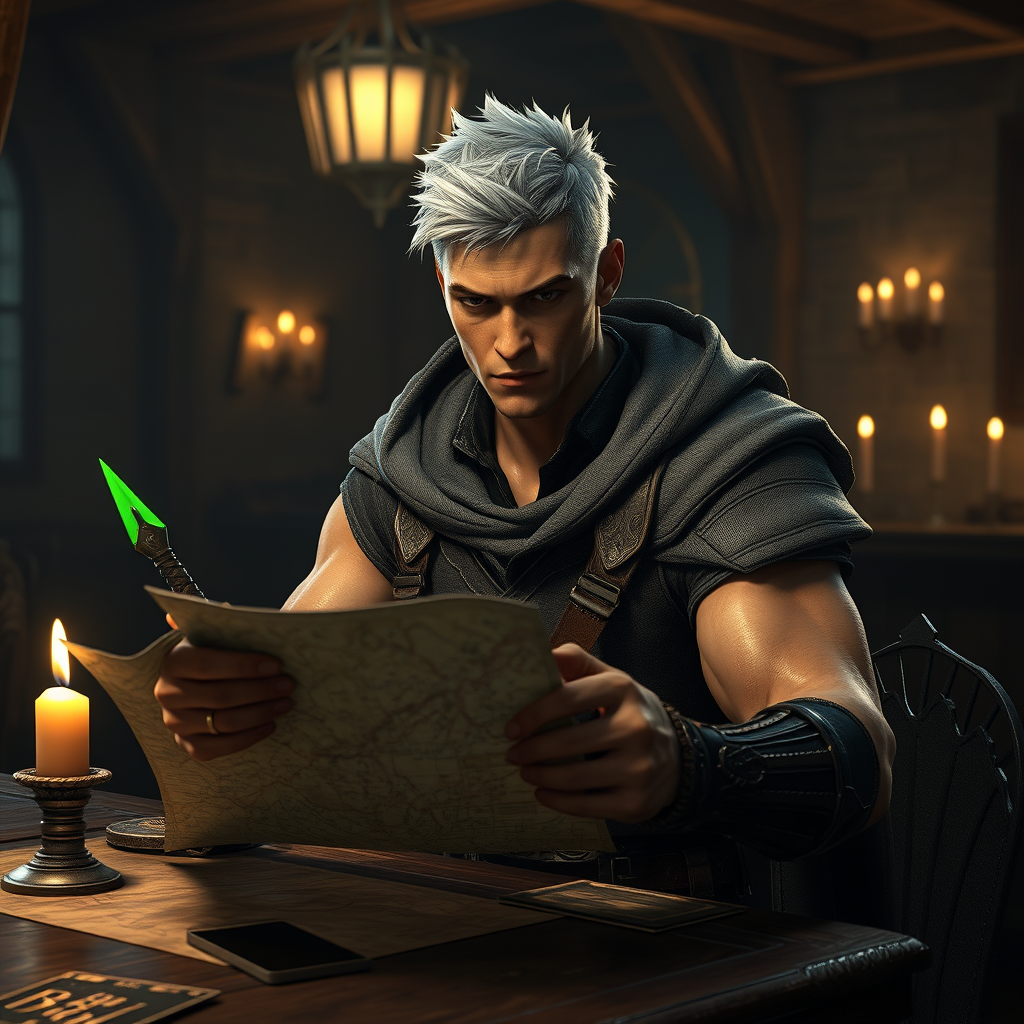
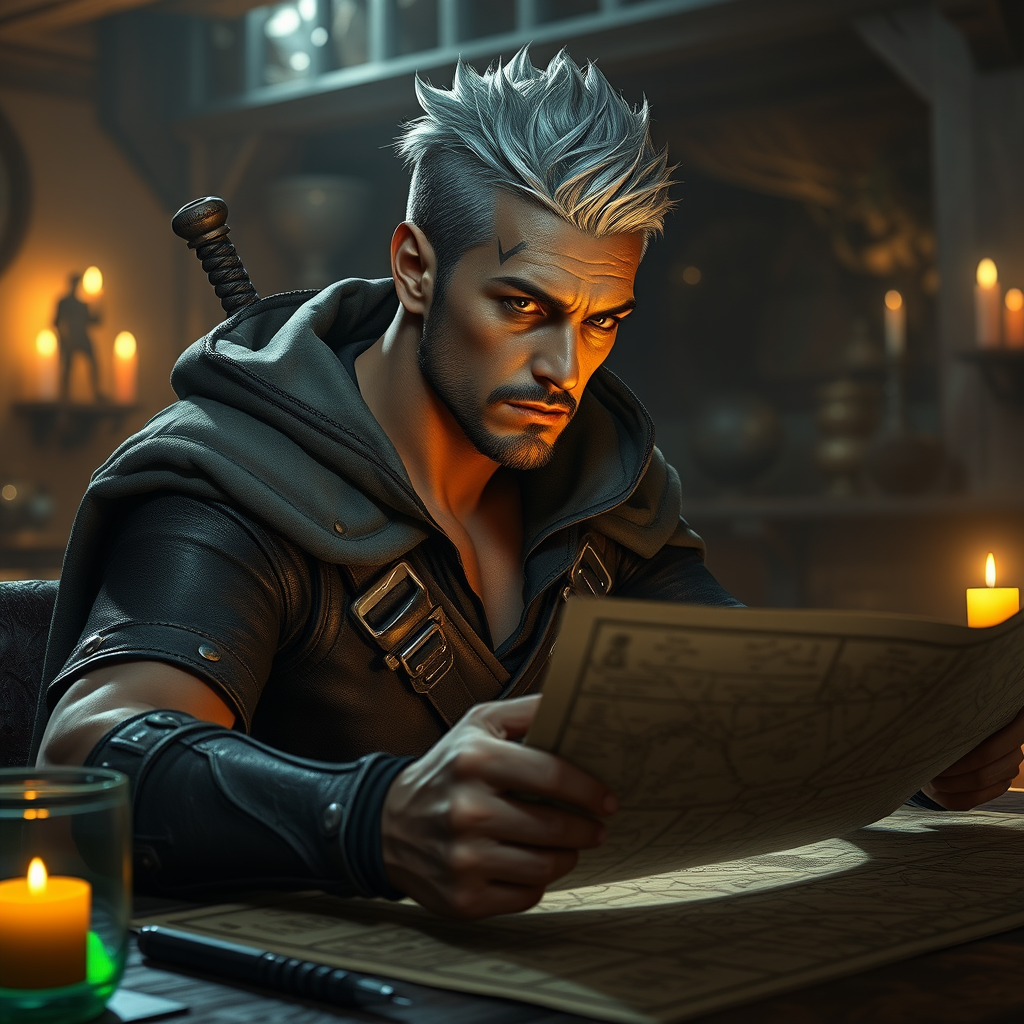
fix: refactor prompt builder to use natural language sentences for FLUX model compatibility

diff --git a/report/report.html b/report/report.html
@@ -442,7 +442,7 @@ Sending video generation request to fal-ai/minimax/video-01...<br>
             <p style="margin-bottom: 0.5rem;"><strong>Prompt kiểm thử nhập vào:</strong> <code>"Kaelen sitting at a tavern table under dim candlelight, examining a map"</code></p>
             <p style="margin-bottom: 0.5rem; font-size: 0.9rem; color: var(--text-secondary);"><strong>Prompt biên dịch cuối cùng gửi tới API (RAG Augmented):</strong></p>
             <div class="log-box" style="font-size: 0.85rem; white-space: normal; word-break: break-all;">
-                cinematic fantasy realism, photorealistic rendering style, highly rendered 8k concept art, detailed textures, raytraced reflections, volumetric atmospheric lighting, masterpiece, award-winning fantasy illustration, hyper-detailed digital art. Kaelen sitting at a tavern table under dim candlelight, examining a map; character kaelen; outfit variant default; appearance: Kaelen is an athletic rogue with a sharp jawline, realistic skin texture with subtle pores, a scar across his left eye, short spiky silver hair, and amber eyes. He wears a dark leather vest, a grey hooded cloak, and wields dual daggers glowing with green poison.; emotion determined. medium shot, character-focused composition. cinematic rim light, volumetric haze. mood: epic. environment: tavern table, night
+                cinematic fantasy realism, photorealistic rendering style, highly rendered 8k concept art, detailed textures, raytraced reflections, volumetric atmospheric lighting, masterpiece, award-winning fantasy illustration, hyper-detailed digital art A medium shot, character-focused composition showing a character. Kaelen is an athletic rogue with a sharp jawline, realistic skin texture with subtle pores, a scar across his left eye, short spiky silver hair, and amber eyes. He wears a dark leather vest, a grey hooded cloak, and wields dual daggers glowing with green poison. Currently, Kaelen sitting at a tavern table under dim candlelight, examining a map. The character has a determined facial expression. The setting is a tavern table during the night. The scene features cinematic rim light, volumetric haze.
             </div>
             
             <p style="margin-top: 1rem; margin-bottom: 0.5rem;"><strong>Kết quả sinh ảnh từ Hugging Face Inference API:</strong></p>

diff --git a/backend/prompt_builder/__init__.py b/backend/prompt_builder/__init__.py
@@ -28,40 +28,92 @@ def build_diffusion_recipe(
         if isinstance(pack.get("trigger_tokens"), list):
             style_tokens += ", " + ", ".join(pack["trigger_tokens"])
 
-    parts: list[str] = []
-    parts.append(style_tokens.strip())
+    # Natural descriptive prose compiler optimized for FLUX models
+    is_flux = "flux" in image_model_id.lower()
+    
+    if is_flux:
+        # Build natural descriptive prose paragraph
+        prose_parts = []
+        
+        # Style prefixes first
+        if style_tokens:
+            prose_parts.append(style_tokens.strip())
+            
+        # Camera & framing
+        camera_frame = f"A {scene.lc.camera} showing a character."
+        prose_parts.append(camera_frame)
+        
+        # Character appearance and their active action/pose
+        for ch in scene.characters:
+            char_desc = ""
+            if ch.appearance_notes:
+                # Clean up any potential json structures or tags
+                desc = ch.appearance_notes.strip()
+                if desc.lower().startswith("kaelen is ") or desc.lower().startswith("eldrin is "):
+                    char_desc = desc
+                else:
+                    char_desc = f"The character {ch.slug} is a wizard/rogue: {desc}."
+            else:
+                char_desc = f"A character named {ch.slug}."
+                
+            if ch.action:
+                action_text = ch.action.strip()
+                # Ensure correct verb agreement or casing
+                if action_text.lower().startswith("kaelen ") or action_text.lower().startswith("eldrin "):
+                    char_desc += f" Currently, {action_text}."
+                else:
+                    char_desc += f" Currently, the character is {action_text}."
+            
+            if ch.emotion:
+                char_desc += f" The character has a {ch.emotion} facial expression."
+                
+            prose_parts.append(char_desc)
 
-    for ch in scene.characters:
-        bits = []
-        if ch.action:
-            bits.append(ch.action)
-        bits.append(f"character {ch.slug}")
-        bits.append(f"outfit variant {ch.outfit.label}")
-        if ch.appearance_notes:
-            bits.append(f"appearance: {ch.appearance_notes}")
-        if ch.emotion:
-            bits.append(f"emotion {ch.emotion}")
-        parts.append("; ".join(bits))
+        # Environmental setting
+        loc = scene.environment
+        loc_name = loc.display_name or loc.location_slug.replace("_", " ")
+        env_desc = f"The setting is a {loc_name} during the {loc.time_of_day or 'golden hour'}."
+        if scene.lc.lighting:
+            env_desc += f" The scene features {scene.lc.lighting}."
+        prose_parts.append(env_desc)
 
-    parts.append(scene.lc.camera)
-    parts.append(scene.lc.lighting)
-    parts.append(f"mood: {scene.lc.emotional_tone}")
+        positive = " ".join(p for p in prose_parts if p)
+    else:
+        # Legacy structured prompt formatting
+        parts: list[str] = []
+        parts.append(style_tokens.strip())
 
-    loc = scene.environment
-    loc_bits = [loc.display_name or loc.location_slug.replace("_", " ")]
-    loc_bits.append(loc.time_of_day or "")
-    if loc.weather:
-        loc_bits.append(loc.weather)
-    parts.append("environment: " + ", ".join(x for x in loc_bits if x))
+        for ch in scene.characters:
+            bits = []
+            if ch.action:
+                bits.append(ch.action)
+            bits.append(f"character {ch.slug}")
+            bits.append(f"outfit variant {ch.outfit.label}")
+            if ch.appearance_notes:
+                bits.append(f"appearance: {ch.appearance_notes}")
+            if ch.emotion:
+                bits.append(f"emotion {ch.emotion}")
+            parts.append("; ".join(bits))
 
-    if scene.creatures:
-        crew = []
-        for c in scene.creatures:
-            label = c.nickname or c.species_key
-            crew.append(f"{label} ({c.species_key}, evolution stage {c.stage_key})")
-        parts.append("party Pokemon present EXACTLY (do not add or replace): " + "; ".join(crew))
+        parts.append(scene.lc.camera)
+        parts.append(scene.lc.lighting)
+        parts.append(f"mood: {scene.lc.emotional_tone}")
 
-    positive = ". ".join(p for p in parts if p)
+        loc = scene.environment
+        loc_bits = [loc.display_name or loc.location_slug.replace("_", " ")]
+        loc_bits.append(loc.time_of_day or "")
+        if loc.weather:
+            loc_bits.append(loc.weather)
+        parts.append("environment: " + ", ".join(x for x in loc_bits if x))
+
+        if scene.creatures:
+            crew = []
+            for c in scene.creatures:
+                label = c.nickname or c.species_key
+                crew.append(f"{label} ({c.species_key}, evolution stage {c.stage_key})")
+            parts.append("party Pokemon present EXACTLY (do not add or replace): " + "; ".join(crew))
+
+        positive = ". ".join(p for p in parts if p)
 
     negative = (
         vb_neg

diff --git a/report/prompt.md b/report/prompt.md
@@ -4,7 +4,7 @@ This file contains the prompts used to verify context continuity for the new cha
 
 ## Character Specification (Database Canon)
 - **Slug**: `kaelen`
-- **Outfit Variant (default)**: `Kaelen is an athletic rogue with a sharp jawline, a scar across his left eye, short spiky silver hair, and amber eyes. He wears a dark leather vest, a grey hooded cloak, and wields dual daggers glowing with green poison.`
+- **Outfit Variant (default)**: `Kaelen is an athletic rogue with a sharp jawline, realistic skin texture with subtle pores, a scar across his left eye, short spiky silver hair, and amber eyes. He wears a dark leather vest, a grey hooded cloak, and wields dual daggers glowing with green poison.`
 - **Visual Bible Style Suffix**: `cinematic fantasy realism, photorealistic rendering style, highly rendered 8k concept art, detailed textures, raytraced reflections, volumetric atmospheric lighting, masterpiece`
 - **Visual Bible Trigger Tokens**: `award-winning fantasy illustration, hyper-detailed digital art`
 - **Negative Prompt Bank**: `ugly, deformed, blurry, low quality, bad proportions, distorted face, extra limbs, anime style, cartoon, drawing, flat shading, simple background, CGI, plastic texture`
@@ -15,7 +15,7 @@ This file contains the prompts used to verify context continuity for the new cha
 - **UI Raw Prompt**: `Kaelen sneaking in the shadowy castle corridors`
 - **Compiled Positive Prompt**:
   ```text
-  cinematic fantasy realism, photorealistic rendering style, highly rendered 8k concept art, detailed textures, raytraced reflections, volumetric atmospheric lighting, masterpiece, award-winning fantasy illustration, hyper-detailed digital art. Kaelen sneaking in the shadowy castle corridors; character kaelen; outfit variant default; appearance: Kaelen is an athletic rogue with a sharp jawline, a scar across his left eye, short spiky silver hair, and amber eyes. He wears a dark leather vest, a grey hooded cloak, and wields dual daggers glowing with green poison.; emotion determined. medium shot, character-focused composition. cinematic rim light, volumetric haze. mood: epic. environment: shadowy castle corridors, night
+  cinematic fantasy realism, photorealistic rendering style, highly rendered 8k concept art, detailed textures, raytraced reflections, volumetric atmospheric lighting, masterpiece, award-winning fantasy illustration, hyper-detailed digital art A medium shot, character-focused composition showing a character. Kaelen is an athletic rogue with a sharp jawline, realistic skin texture with subtle pores, a scar across his left eye, short spiky silver hair, and amber eyes. He wears a dark leather vest, a grey hooded cloak, and wields dual daggers glowing with green poison. Currently, Kaelen sneaking in the shadowy castle corridors. The character has a determined facial expression. The setting is a shadowy castle corridors during the golden hour. The scene features cinematic rim light, volumetric haze.
   ```
 
 ---
@@ -24,7 +24,7 @@ This file contains the prompts used to verify context continuity for the new cha
 - **UI Raw Prompt**: `Kaelen jumping from a high roof at night`
 - **Compiled Positive Prompt**:
   ```text
-  cinematic fantasy realism, photorealistic rendering style, highly rendered 8k concept art, detailed textures, raytraced reflections, volumetric atmospheric lighting, masterpiece, award-winning fantasy illustration, hyper-detailed digital art. Kaelen jumping from a high roof at night; character kaelen; outfit variant default; appearance: Kaelen is an athletic rogue with a sharp jawline, a scar across his left eye, short spiky silver hair, and amber eyes. He wears a dark leather vest, a grey hooded cloak, and wields dual daggers glowing with green poison.; emotion determined. medium shot, character-focused composition. cinematic rim light, volumetric haze. mood: epic. environment: high roof, night
+  cinematic fantasy realism, photorealistic rendering style, highly rendered 8k concept art, detailed textures, raytraced reflections, volumetric atmospheric lighting, masterpiece, award-winning fantasy illustration, hyper-detailed digital art A medium shot, character-focused composition showing a character. Kaelen is an athletic rogue with a sharp jawline, realistic skin texture with subtle pores, a scar across his left eye, short spiky silver hair, and amber eyes. He wears a dark leather vest, a grey hooded cloak, and wields dual daggers glowing with green poison. Currently, Kaelen jumping from a high roof at night. The character has a determined facial expression. The setting is a high roof during the night. The scene features cinematic rim light, volumetric haze.
   ```
 
 ---
@@ -33,5 +33,5 @@ This file contains the prompts used to verify context continuity for the new cha
 - **UI Raw Prompt**: `Kaelen sitting at a tavern table under dim candlelight, examining a map`
 - **Compiled Positive Prompt**:
   ```text
-  cinematic fantasy realism, photorealistic rendering style, highly rendered 8k concept art, detailed textures, raytraced reflections, volumetric atmospheric lighting, masterpiece, award-winning fantasy illustration, hyper-detailed digital art. Kaelen sitting at a tavern table under dim candlelight, examining a map; character kaelen; outfit variant default; appearance: Kaelen is an athletic rogue with a sharp jawline, a scar across his left eye, short spiky silver hair, and amber eyes. He wears a dark leather vest, a grey hooded cloak, and wields dual daggers glowing with green poison.; emotion determined. medium shot, character-focused composition. cinematic rim light, volumetric haze. mood: epic. environment: tavern table, night
+  cinematic fantasy realism, photorealistic rendering style, highly rendered 8k concept art, detailed textures, raytraced reflections, volumetric atmospheric lighting, masterpiece, award-winning fantasy illustration, hyper-detailed digital art A medium shot, character-focused composition showing a character. Kaelen is an athletic rogue with a sharp jawline, realistic skin texture with subtle pores, a scar across his left eye, short spiky silver hair, and amber eyes. He wears a dark leather vest, a grey hooded cloak, and wields dual daggers glowing with green poison. Currently, Kaelen sitting at a tavern table under dim candlelight, examining a map. The character has a determined facial expression. The setting is a tavern table during the night. The scene features cinematic rim light, volumetric haze.
   ```
